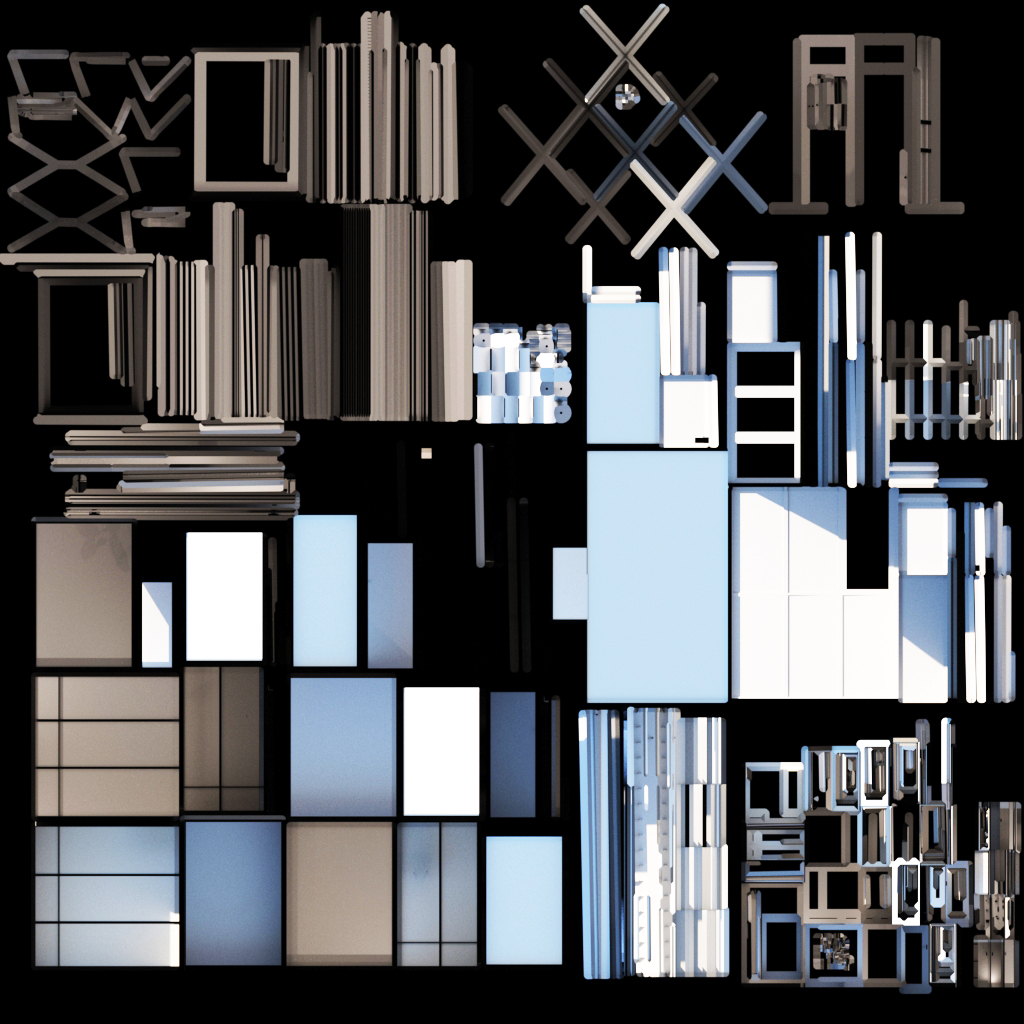
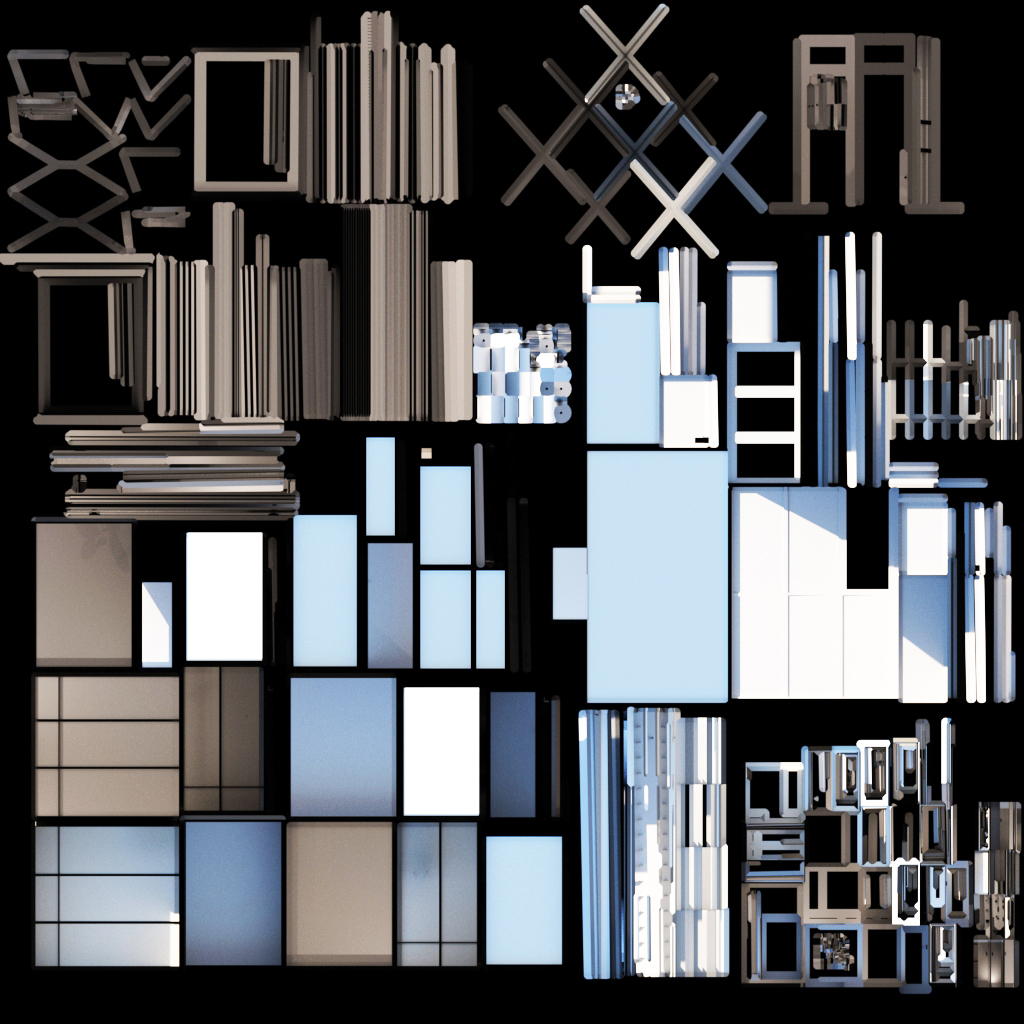
fix: cambio de ligthmaps to banio and fachada glass

Changed region(s): [[0.3438, 0.4062, 0.5, 0.6562]]

diff --git a/src/components/header/HeaderGlobalComponent.vue b/src/components/header/HeaderGlobalComponent.vue
@@ -10,15 +10,15 @@
       <div class='flex h-full'>
          <!-- <div class="col-span-1 xl:col-span-1 flex items-center justify-center h-full"></div> -->
           <div  @click="clickMenuTop('https://www.vitromex.com.mx')"
-          class=" w-336 pl-4 flex items-center justify-start h-full cursor-pointer">
+          class=" w-336  pl-4 flex items-center justify-start h-full cursor-pointer">
             <img  v-if="getPageState" src="../../assets/arko/Web/ARKO_Logo.svg" style="width:170px; height:48px" alt="">
             <img v-else src="../../assets/web/Logo_Vitromex.svg" style="width:170px; height:48px" alt="">
             </div>
-          <div class="flex w-2/6 items-center justify-start h-full">
+          <div class="flex w-96 items-center justify-center h-full">
             <p class="text-title text-2xl xl:text-3xl font-bold gotham">MI PROYECTO</p>
             </div>
-            <div class=" h-full">
-              <div class="pr-28 flex items-center h-full justify-around ">
+            <div class=" w-full h-full">
+              <div class="pr-28 flex items-center h-full justify-end">
                 <button 
                 @click="clickMenuTop('https://www.vitromex.com.mx/contacto')"
                 class="focus:outline-none text-lg text-title cursor-pointer moserrat-semibold px-4 ">Contacto</button>

diff --git a/src/three/objects/House.js b/src/three/objects/House.js
@@ -335,13 +335,13 @@ export class House extends Mesh{
             return  
             }
             if(child.name === "Amb_Base_vidrioopaco_UVc_MT_Amb_Base_vidrioopaco_UVc_0"){
-                child.material.envMap =  this.envMap
+                // child.material.envMap =  this.envMap
                 // TODO: actualizar ligthmap
-            //     child.material.lightMap=uvc
-            // child.material.lightMapIntensity=6
+                child.material.lightMap=uvc
+                child.material.lightMapIntensity=6
                 child.material.roughness=0.18
-            //     child.material.transparent =true
-            //     child.material.opacity=1
+                child.material.transparent =true
+                child.material.opacity=1
 
                 return 
             }
